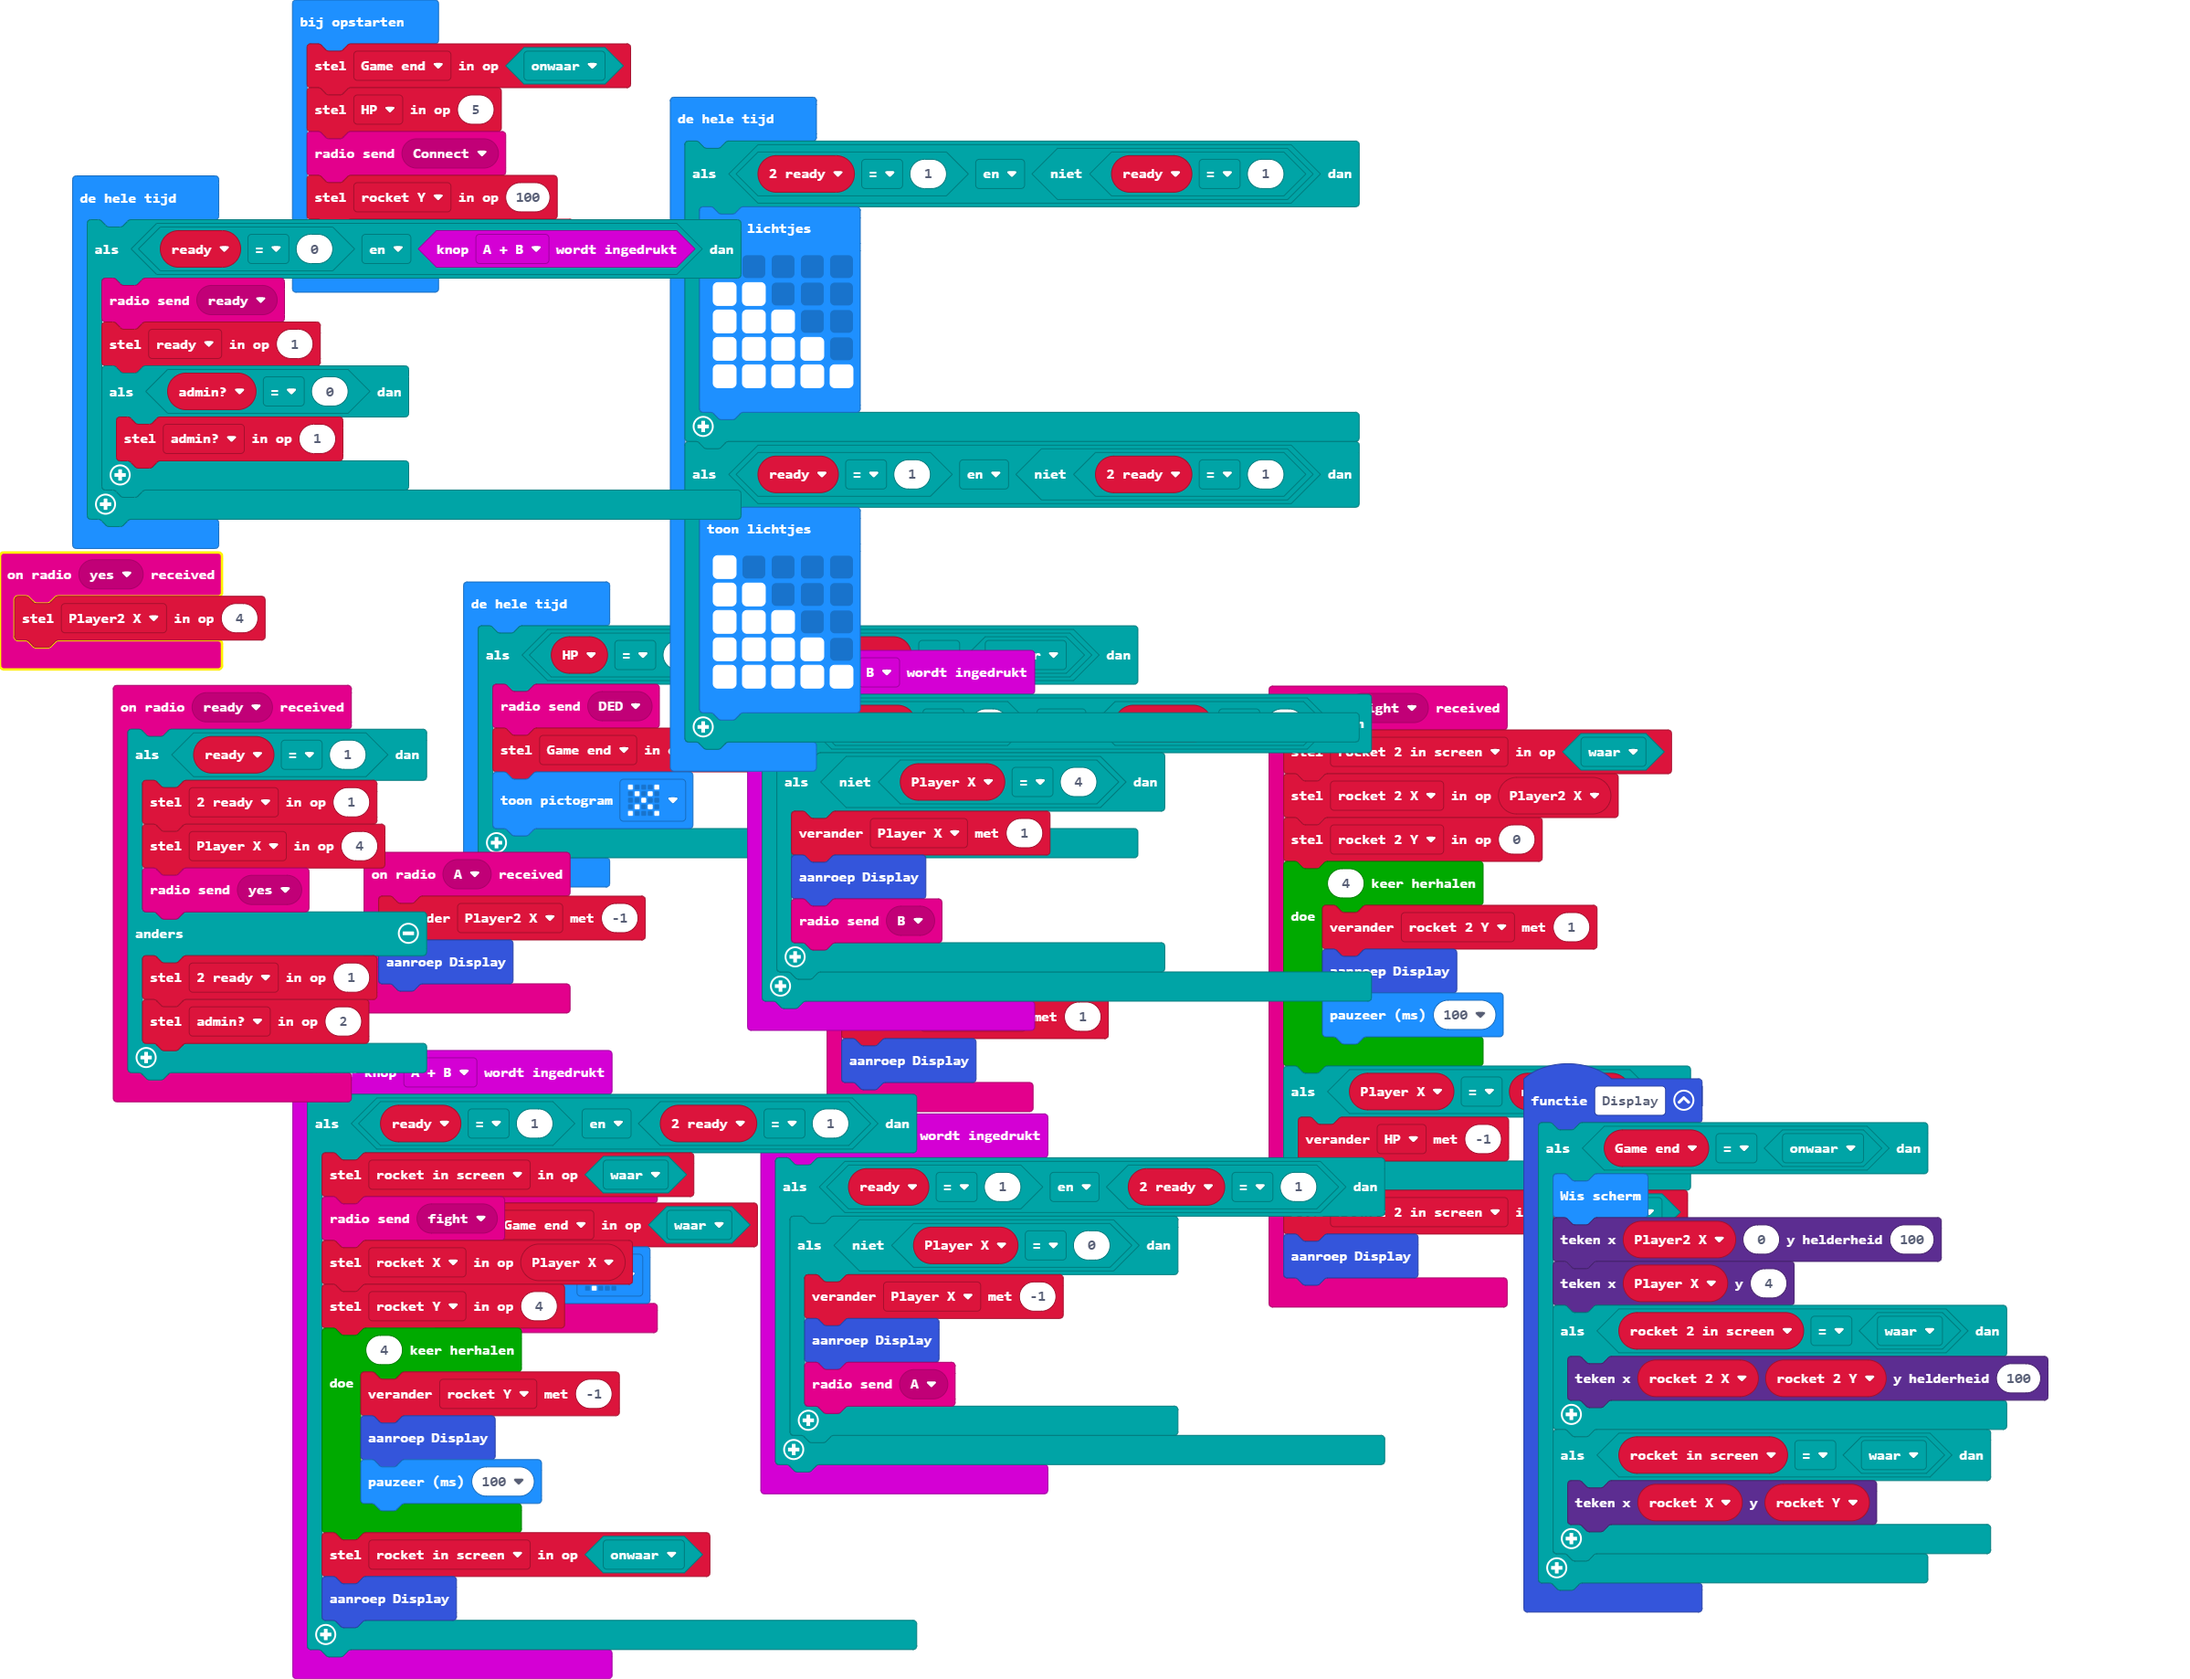
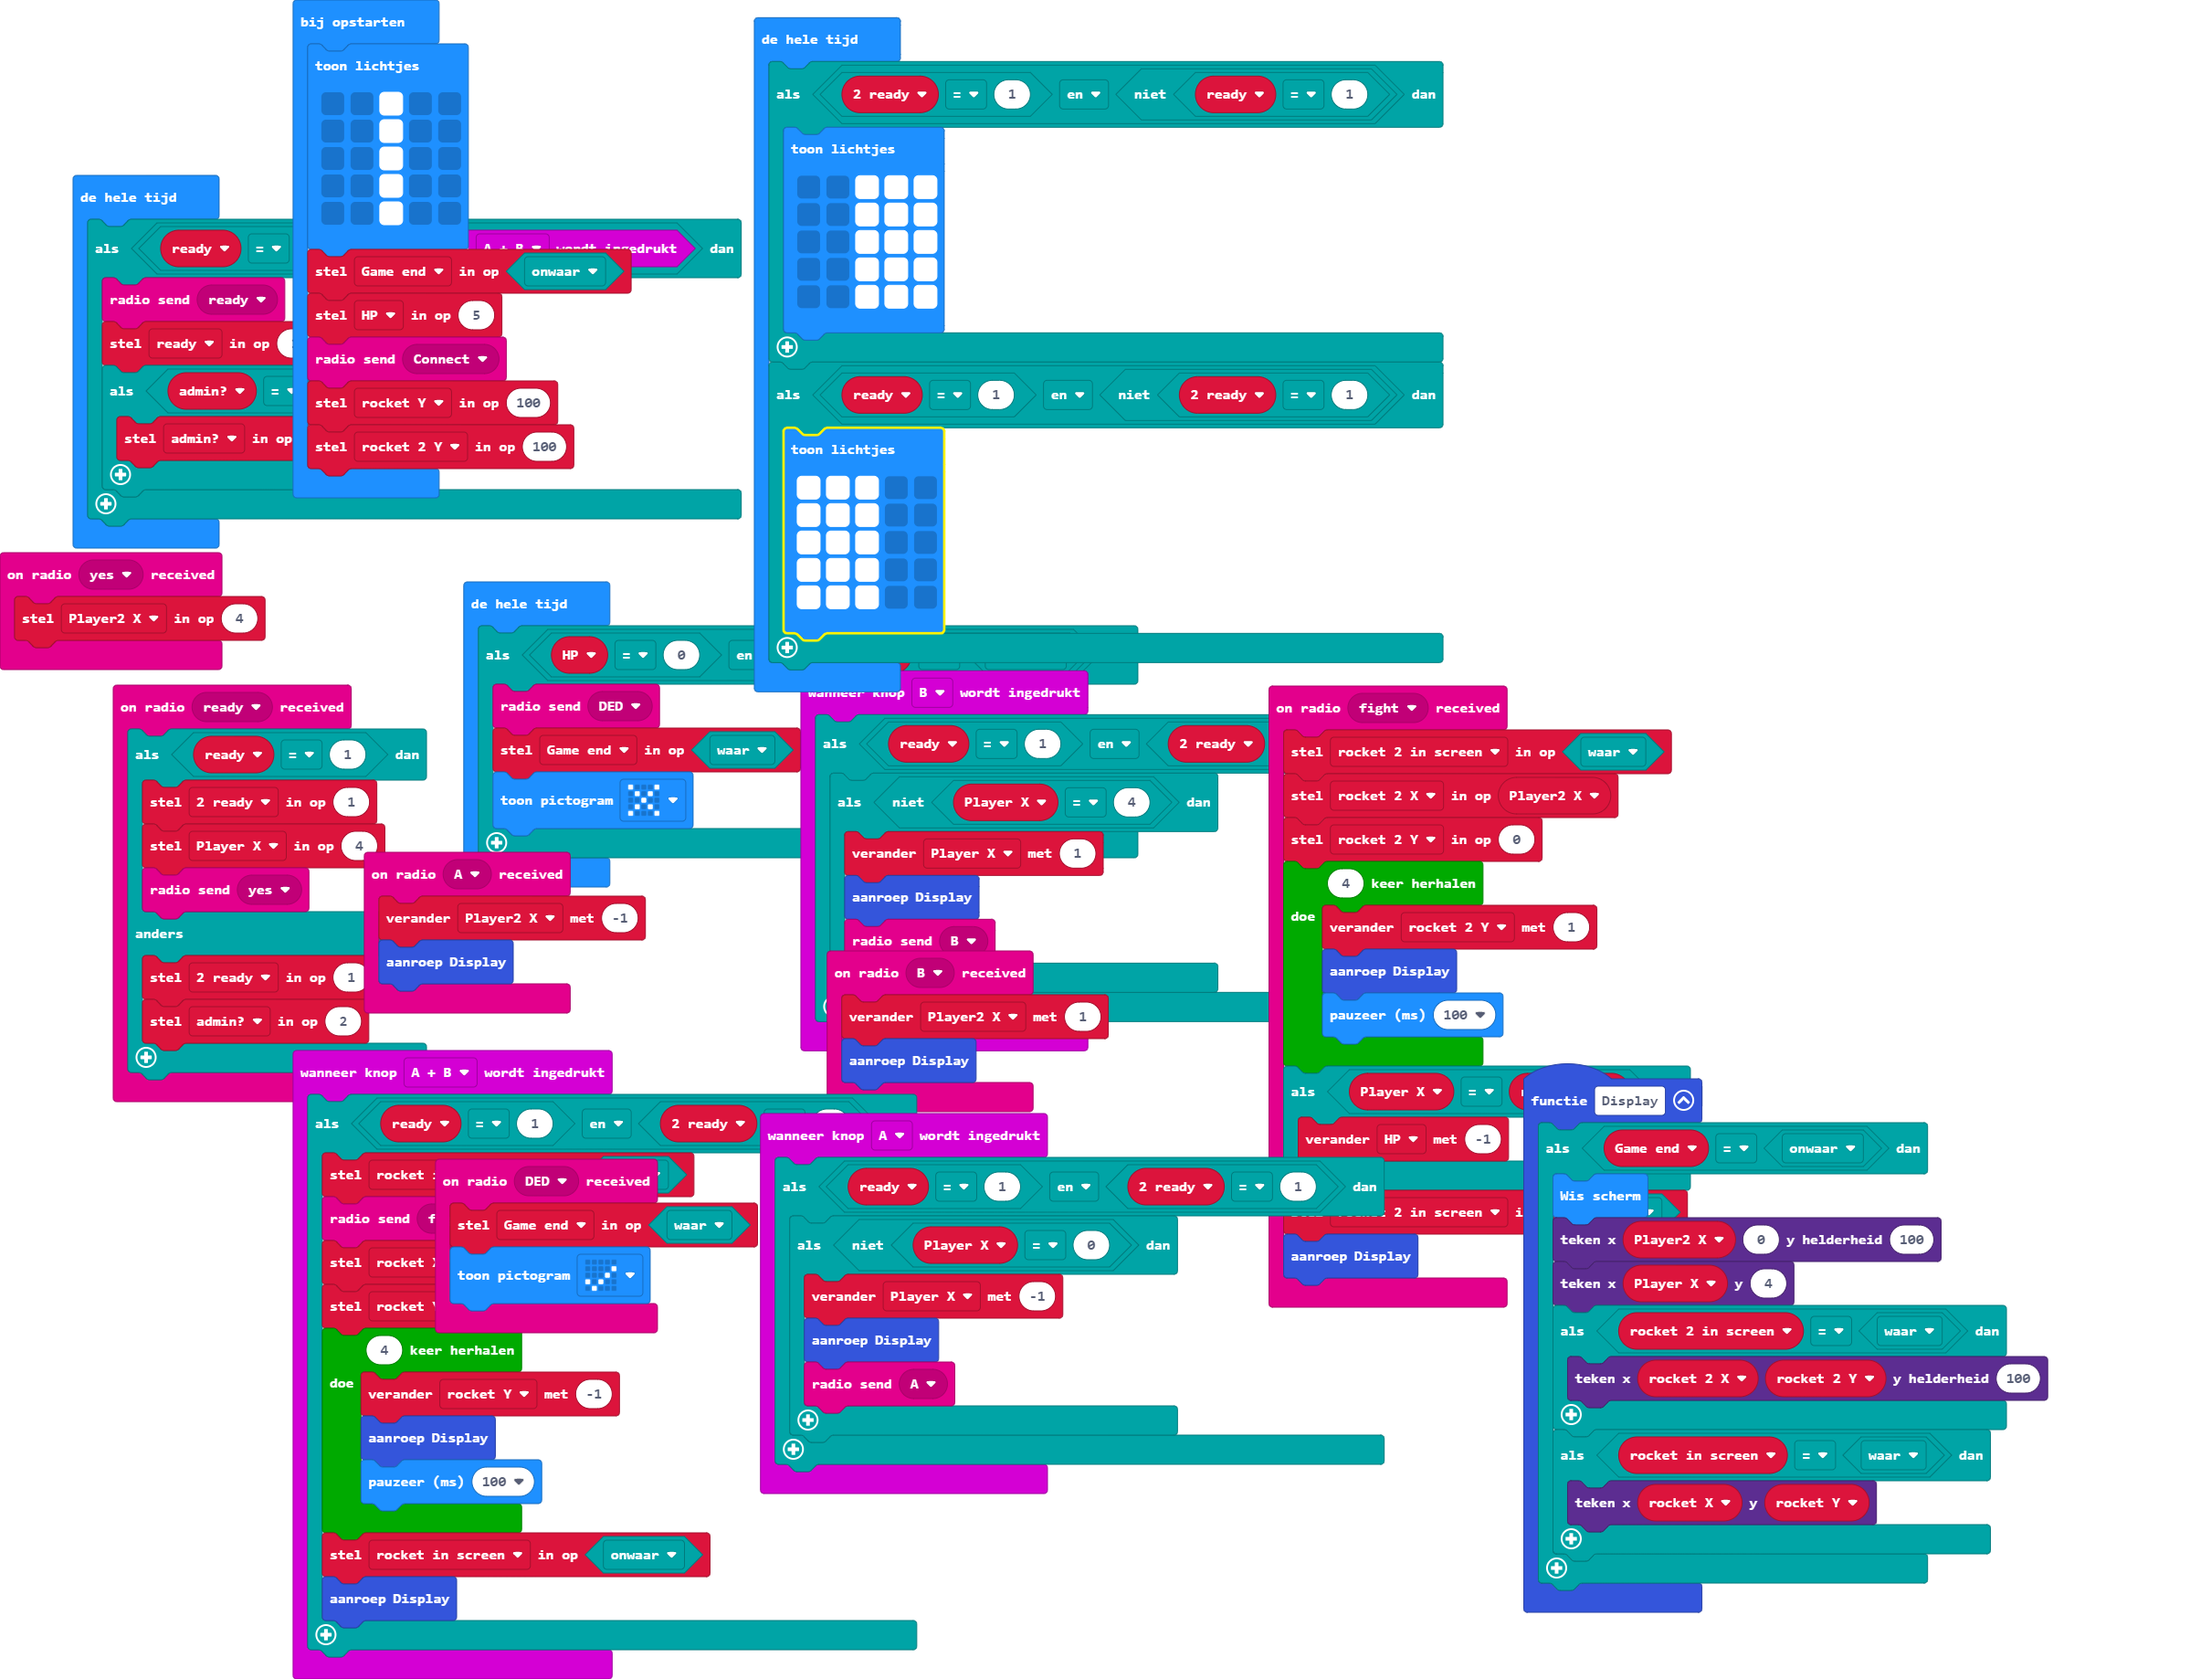
Update main.blocks, main.ts

diff --git a/main.ts b/main.ts
@@ -106,6 +106,13 @@ let Player2_X = 0
 let rocket_2_Y = 0
 let rocket_Y = 0
 let Game_end = false
+basic.showLeds(`
+    . . # . .
+    . . # . .
+    . . # . .
+    . . # . .
+    . . # . .
+    `)
 Game_end = false
 let HP = 5
 radio.sendMessage(RadioMessage.Connect)
@@ -114,20 +121,20 @@ rocket_2_Y = 100
 basic.forever(function () {
     if (_2_ready == 1 && !(ready == 1)) {
         basic.showLeds(`
-            # . . . .
-            # # . . .
-            # # # . .
-            # # # # .
-            # # # # #
+            . . # # #
+            . . # # #
+            . . # # #
+            . . # # #
+            . . # # #
             `)
     }
     if (ready == 1 && !(_2_ready == 1)) {
         basic.showLeds(`
-            # . . . .
-            # # . . .
             # # # . .
-            # # # # .
-            # # # # #
+            # # # . .
+            # # # . .
+            # # # . .
+            # # # . .
             `)
     }
 })
